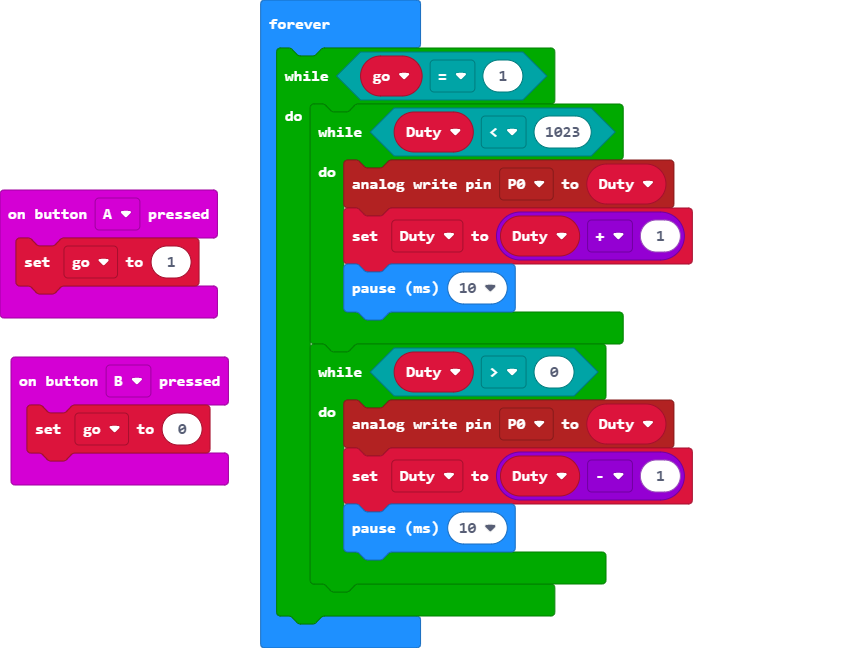
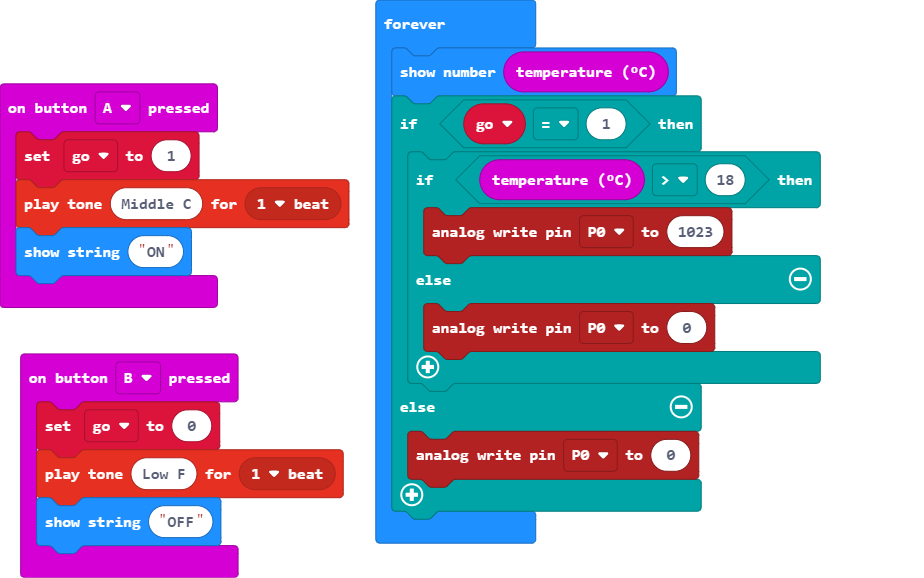
Turn on motor if over 18deg c

diff --git a/main.ts b/main.ts
@@ -1,22 +1,23 @@
 let go = 0
-let Duty = 0
 input.onButtonPressed(Button.A, function () {
     go = 1
+    music.playTone(262, music.beat(BeatFraction.Whole))
+    basic.showString("ON")
 })
 input.onButtonPressed(Button.B, function () {
     go = 0
+    music.playTone(175, music.beat(BeatFraction.Whole))
+    basic.showString("OFF")
 })
 basic.forever(function () {
-    while (go == 1) {
-        while (Duty < 1023) {
-            pins.analogWritePin(AnalogPin.P0, Duty)
-            Duty = Duty + 1
-            basic.pause(10)
+    basic.showNumber(input.temperature())
+    if (go == 1) {
+        if (input.temperature() > 18) {
+            pins.analogWritePin(AnalogPin.P0, 1023)
+        } else {
+            pins.analogWritePin(AnalogPin.P0, 0)
         }
-        while (Duty > 0) {
-            pins.analogWritePin(AnalogPin.P0, Duty)
-            Duty = Duty - 1
-            basic.pause(10)
-        }
+    } else {
+        pins.analogWritePin(AnalogPin.P0, 0)
     }
 })
